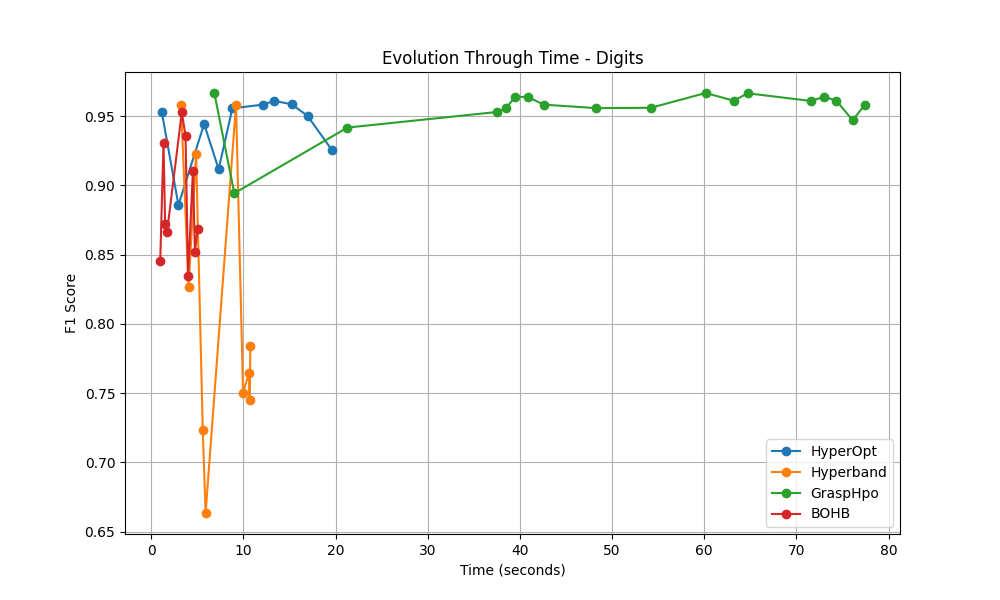
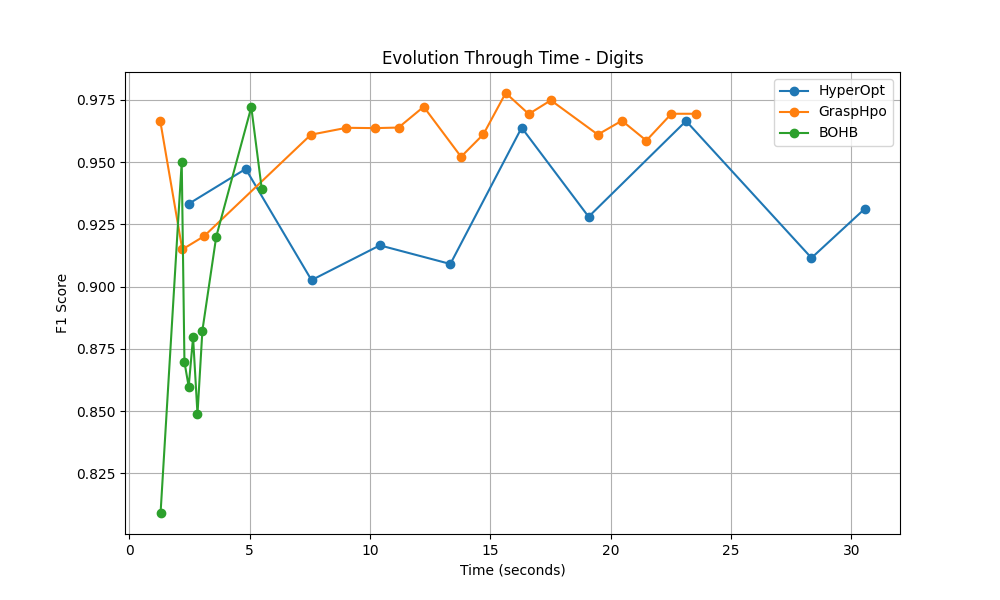
WIP Add PowerSystemAttacks Dataset. Hyperband not working with it

diff --git a/src/input/processor/power_system_attack_processor.py b/src/input/processor/power_system_attack_processor.py
@@ -1,0 +1,34 @@
+import numpy as np
+import pandas as pd
+from sklearn.impute import SimpleImputer
+from sklearn.preprocessing import LabelEncoder, StandardScaler
+
+from src.input.processor.dataset import Dataset
+
+
+class PowerSystemAttackProcessor:
+    @staticmethod
+    def load_data(filepath="./input/data/PowerSystemAttackDatasets.csv"):
+        data_df = pd.read_csv(filepath)
+
+        columns_to_drop = ['control_panel_log1', 'control_panel_log2', 'control_panel_log3', 'control_panel_log4',
+                           'relay1_log', 'relay2_log', 'relay3_log', 'relay4_log',
+                           'snort_log1', 'snort_log2', 'snort_log3', 'snort_log4']
+        data_df.drop(columns=columns_to_drop, inplace=True, errors='ignore')
+
+        # Replace inf/-inf with NaN because xgboost is not able to handle inf values
+        data_df.replace([np.inf, -np.inf], np.nan, inplace=True)
+
+        # Impute missing values (numeric columns with mean, might not be the best approach)
+        numeric_columns = data_df.select_dtypes(include=['float64', 'int']).columns
+        imputer = SimpleImputer(missing_values=np.nan, strategy='mean')
+        data_df[numeric_columns] = imputer.fit_transform(data_df[numeric_columns])
+
+        label_encoder = LabelEncoder()
+        target = label_encoder.fit_transform(data_df['marker'])
+        data_df.drop(columns=['marker'], inplace=True)
+
+        scaler = StandardScaler()
+        scaled_features = pd.DataFrame(scaler.fit_transform(data_df), columns=data_df.columns)
+
+        return Dataset(scaled_features, target)

diff --git a/src/input/dataset_factory.py b/src/input/dataset_factory.py
@@ -1,6 +1,7 @@
 from sklearn.datasets import load_breast_cancer, load_digits, load_iris, load_wine, load_diabetes
 
 from src.input.processor.ereno_processor import ErenoProcessor
+from src.input.processor.power_system_attack_processor import PowerSystemAttackProcessor
 
 
 class DatasetFactory:
@@ -8,7 +9,7 @@ class DatasetFactory:
     def load_dataset(dataset_name):
         if dataset_name == 'Ereno':
             return ErenoProcessor.load_data()
-        elif dataset_name == 'Breast Cancer':
+        elif dataset_name == 'BreastCancer':
             return load_breast_cancer()
         elif dataset_name == 'Digits':
             return load_digits()
@@ -16,5 +17,7 @@ class DatasetFactory:
             return load_iris()
         elif dataset_name == 'Wine':
             return load_wine()
+        elif dataset_name == 'PowerSystemAttacks':
+            return PowerSystemAttackProcessor.load_data()
         else:
-            raise ValueError("Invalid HPO strategy name")
+            raise ValueError("Invalid dataset name")

diff --git a/src/hpo/benchmark/hyperband.py b/src/hpo/benchmark/hyperband.py
@@ -4,6 +4,7 @@ from ray import tune
 from ray.train import RunConfig
 from ray.tune.integration.xgboost import TuneReportCheckpointCallback
 from ray.tune.schedulers import ASHAScheduler
+import ray
 from sklearn.metrics import f1_score
 
 from src.hpo.hpo_strategy import HPOStrategy
@@ -12,6 +13,9 @@ from ..hyperparameters import get_hyperparameters
 
 class Hyperband(HPOStrategy):
     def hyperparameter_optimization(self, x_train, y_train, x_val, y_val):
+        if not ray.is_initialized():
+            ray.init(log_to_driver=True, ignore_reinit_error=True)
+
         def evaluate_f1_score(predt: np.ndarray, dtrain: xgboost.DMatrix) -> tuple[str, float]:
             """Compute the f1 score"""
             y = dtrain.get_label()

diff --git a/src/main.py b/src/main.py
@@ -43,9 +43,9 @@ class Main:
 
     @staticmethod
     def main():
-        dataset_names = ['Breast Cancer', 'Digits', 'Iris', 'Wine', 'Ereno']
+        dataset_names = ['BreastCancer', 'Digits', 'Iris', 'Wine', 'Ereno', 'PowerSystemAttacks']
         # dataset_names = ['Breast Cancer']
-        strategies = ['HyperOpt', 'Hyperband', 'GraspHpo', 'BOHB', 'Default HPs']
+        strategies = ['HyperOpt', 'GraspHpo', 'BOHB', 'Default HPs']
         # strategies = ['Hyperband']
 
         data_final_metrics = []

diff --git a/src/input/processor/ereno_processor.py b/src/input/processor/ereno_processor.py
@@ -1,13 +1,8 @@
 import pandas as pd
-from pathlib import Path
 
 from sklearn.preprocessing import LabelEncoder
 
-
-class Dataset:
-    def __init__(self, data, target) -> None:
-        self.data = data
-        self.target = target
+from src.input.processor.dataset import Dataset
 
 
 class ErenoProcessor:

diff --git a/src/input/processor/dataset.py b/src/input/processor/dataset.py
@@ -1,0 +1,4 @@
+class Dataset:
+    def __init__(self, data, target) -> None:
+        self.data = data
+        self.target = target
